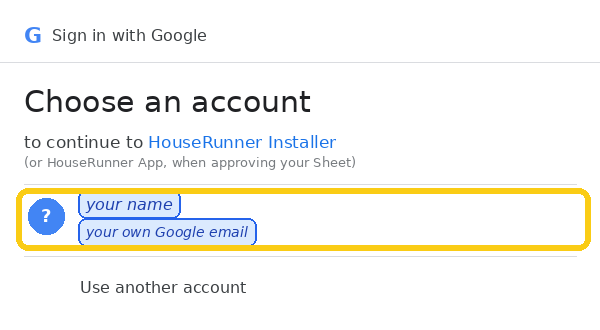
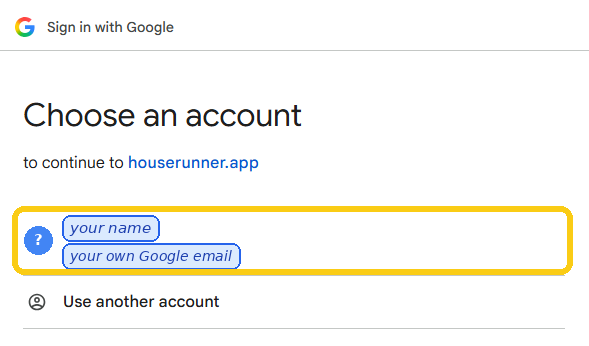
2026.11.350: real Choose an account step
Claude-Session: https://claude.ai/code/session_01R2kV4GW3UVFR51NzUKtdLQ

diff --git a/setup/guide/auto.js b/setup/guide/auto.js
@@ -91,8 +91,8 @@
         else if (S.needSwitch && k <= 2) body = '';
         else if (k === 0) body = '<div class="card big"><h3>Sign in with the Google account for your family dashboard</h3><p>Google asks you to let the <b>HouseRunner Installer</b> make <b>one new Sheet</b> in your Drive and <b>make and publish its script</b>. It can’t see your other files.' +
             (S.email ? ' <span class="mute">Last time you used ' + esc(S.email) + ' – use the same account to carry on with the same Sheet.</span>' : '') + '</p>' +
-            '<ol class="mute"><li>A Google window opens: choose <b>your</b> account.</li><li>Google says <b>“Sign in to houserunner.app”</b> with your email: click <b>Continue</b>.</li><li>Google says <b>“Google hasn’t verified this app”</b> – that’s expected, HouseRunner is new. Click <b>Continue</b> (the blue word on the left – not “Back to safety”). <span class="small">(If it shows <b>Advanced</b> instead, click that, then <b>Go to HouseRunner Installer (unsafe)</b>.)</span></li><li>Tick <b>Select all</b>, scroll down and click <b>Continue</b>.</li></ol>' +
-            '<div class="hri-pics"><figure><img src="../../shared/brand/steps/h-signinto.png?v=347" alt=""><figcaption>Sign in to houserunner.app: Continue</figcaption></figure><figure><img src="../../shared/brand/steps/h-testing.png?v=345" alt=""><figcaption>Not verified yet: Continue, on the left</figcaption></figure><figure><img src="../../shared/brand/steps/h-consent-inst.png?v=348" alt=""><figcaption>Tick Select all – your own Google email shows where it’s marked</figcaption></figure><figure><img src="../../shared/brand/steps/h-continue-inst.png?v=349" alt=""><figcaption>…then scroll down: Continue</figcaption></figure></div>' + '<p>' + '<button class="btn ghost sm" data-showme type="button">🎬 Show me</button> <span class="mute small">– a small window with a short clip of each click</span>' + '</p>' +
+            '<ol class="mute"><li>A Google window opens, <b>“Choose an account”</b>: click your account. <span class="small">(Not signed in to Google on this computer yet? It asks for your Google email and password first. Account not listed? Click <b>Use another account</b>.)</span></li><li>Google says <b>“Sign in to houserunner.app”</b> with your email: click <b>Continue</b>.</li><li>Google says <b>“Google hasn’t verified this app”</b> – that’s expected, HouseRunner is new. Click <b>Continue</b> (the blue word on the left – not “Back to safety”). <span class="small">(If it shows <b>Advanced</b> instead, click that, then <b>Go to HouseRunner Installer (unsafe)</b>.)</span></li><li>Tick <b>Select all</b>, scroll down and click <b>Continue</b>.</li></ol>' +
+            '<div class="hri-pics"><figure><img src="../../shared/brand/steps/h-choose.png?v=350" alt=""><figcaption>Choose an account: click yours</figcaption></figure><figure><img src="../../shared/brand/steps/h-signinto.png?v=347" alt=""><figcaption>Sign in to houserunner.app: Continue</figcaption></figure><figure><img src="../../shared/brand/steps/h-testing.png?v=345" alt=""><figcaption>Not verified yet: Continue, on the left</figcaption></figure><figure><img src="../../shared/brand/steps/h-consent-inst.png?v=348" alt=""><figcaption>Tick Select all – your own Google email shows where it’s marked</figcaption></figure><figure><img src="../../shared/brand/steps/h-continue-inst.png?v=349" alt=""><figcaption>…then scroll down: Continue</figcaption></figure></div>' + '<p>' + '<button class="btn ghost sm" data-showme type="button">🎬 Show me</button> <span class="mute small">– a small window with a short clip of each click</span>' + '</p>' +
             '<div class="row"><button class="btn" id="go">' + (S.sheetId ? 'Sign in and carry on' : 'Sign in with Google') + '</button></div></div>';
         else if (k === 4) body = '<div class="card big"><h3>One Google approval for HouseRunner App</h3><p>Your Sheet is made and published. Now approve what <b>HouseRunner App</b> does in your account – your calendar, sending your setup emails and so on (why each is needed is below). This tab goes to Google, then comes back here.</p>' +
             '<ol class="mute"><li>Google says <b>HouseRunner App (Unverified) needs your permission</b>: click <b>REVIEW PERMISSIONS</b>.</li><li>A Google window opens: choose <b>your</b> account.</li><li>Google warns it hasn’t been verified – expected: it’s your own private copy. If it shows <b>“Google hasn’t verified this app”</b>, click <b>Continue</b> on the left. <span class="small">(Or: <b>Advanced</b>, then <b>Go to HouseRunner App (unsafe)</b>.)</span></li><li>Tick <b>Select all</b>, scroll down, click <b>Continue</b>.</li><li>“Waiting for authorization…” for a few seconds – <b>stuck?</b> Press <b>F5</b>.</li><li>Google shows <b>✅ Approved</b>: click <b>▶ Back to HouseRunner setup</b>.</li></ol>' +

diff --git a/index.html b/index.html
@@ -24,11 +24,11 @@
         window.FD_DESK = true; window.FD_PHONE = !!phone;
     })();
     </script>
-    <link rel="stylesheet" href="shared/base.css?v=202611349">
-    <link rel="stylesheet" href="admin/admin.css?v=202611349">
-    <link rel="stylesheet" href="setup/desk.css?v=202611349">
-    <link rel="stylesheet" href="setup/editor.css?v=202611349">
-    <link rel="stylesheet" href="admin/phone.css?v=202611349">
+    <link rel="stylesheet" href="shared/base.css?v=202611350">
+    <link rel="stylesheet" href="admin/admin.css?v=202611350">
+    <link rel="stylesheet" href="setup/desk.css?v=202611350">
+    <link rel="stylesheet" href="setup/editor.css?v=202611350">
+    <link rel="stylesheet" href="admin/phone.css?v=202611350">
     <style>
 #landing { min-height: 100vh; }
 #landing .ld-wrap { max-width: 1100px; margin: 0 auto; padding: 30px 18px 50px; }
@@ -206,20 +206,20 @@
     </div></div>
     <!-- Connected: houserunner.app (computer) or Family Admin (phone) – the same app. -->
     <div id="app"></div>
-    <script src="shared/storecheck.js?v=202611349"></script>
-    <script src="shared/fd.js?v=202611349"></script>
-    <script src="dashboard/scripts/platform.js?v=202611349"></script>
-    <script src="shared/pair.js?v=202611349"></script>
-    <script src="shared/qrcode.js?v=202611349"></script>
-    <script src="shared/privacy.js?v=202611349"></script>
-    <script src="shared/countries.js?v=202611349"></script>
-    <script src="setup/config.js?v=202611349"></script>
-    <script src="help/topics.js?v=202611349"></script>
-    <script src="setup/editor.js?v=202611349"></script>
-    <script src="setup/calsetup.js?v=202611349"></script>
-    <script src="shared/icons.js?v=202611349"></script>
+    <script src="shared/storecheck.js?v=202611350"></script>
+    <script src="shared/fd.js?v=202611350"></script>
+    <script src="dashboard/scripts/platform.js?v=202611350"></script>
+    <script src="shared/pair.js?v=202611350"></script>
+    <script src="shared/qrcode.js?v=202611350"></script>
+    <script src="shared/privacy.js?v=202611350"></script>
+    <script src="shared/countries.js?v=202611350"></script>
+    <script src="setup/config.js?v=202611350"></script>
+    <script src="help/topics.js?v=202611350"></script>
+    <script src="setup/editor.js?v=202611350"></script>
+    <script src="setup/calsetup.js?v=202611350"></script>
+    <script src="shared/icons.js?v=202611350"></script>
     <!-- A phone gets Family Admin, written for the phone; a computer houserunner.app. -->
-    <script>document.write('<script src="admin/' + (window.FD_PHONE ? 'phone' : 'app') + '.js?v=202611349"><\/script>');</script>
+    <script>document.write('<script src="admin/' + (window.FD_PHONE ? 'phone' : 'app') + '.js?v=202611350"><\/script>');</script>
 <script>
  (function () {
    'use strict';

diff --git a/setup/guide/helper.html b/setup/guide/helper.html
@@ -32,12 +32,12 @@ button:disabled{opacity:.4;cursor:default}
  * and "Done – next" moves it on where it can't tell (the clicks in Google's own windows).
  * Where a picture shows Google's screens, the account shown is marked "your own Google email": the person sees theirs. */
 (function () {
-    var V = '../../shared/brand/steps/', REV = '349';
+    var V = '../../shared/brand/steps/', REV = '350';
     var SETUP = '🏠 In the <b>HouseRunner setup</b> tab', GWIN = '🔐 In <b>Google’s window</b>', GTAB = '🔐 <b>Google</b>, in the HouseRunner setup tab';
     // [stage, where, what to click, help, media (one, or several shown in turn)]
     var STEPS = [
         ['start', SETUP, 'Click <b>Sign in with Google</b>', 'Use the Google account you want the dashboard in – ideally the one with your family calendar.', 'h-signin.mp4'],
-        ['signin', GWIN, 'Choose <b>your</b> Google account', 'Google opens a small window. Your own name and email are shown where the picture says <i>your name</i> and <i>your own Google email</i>.', 'h-choose.png'],
+        ['signin', GWIN, '“Choose an account”: click <b>yours</b>', 'Google opens a small window. Your own name and email show where the picture says <i>your name</i> and <i>your own Google email</i>. <b>Not signed in to Google on this computer yet?</b> It asks for your Google email and password first. Account not listed? Click <b>Use another account</b>.', 'h-choose.png'],
         ['signin', GWIN, '“Sign in to houserunner.app”: click <b>Continue</b>', 'Google checks it’s you – your own Google email shows where the picture says so. Click <b>Continue</b> on the right.', 'h-signinto.png'],
         ['signin', GWIN, '“Google hasn’t verified this app”: click <b>Continue</b>', 'That’s expected – HouseRunner is new. Click the blue word <b>Continue</b> on the left, <b>not</b> “Back to safety”. <span class="mute">(If it shows <b>Advanced</b> instead, click that, then <b>Go to HouseRunner Installer (unsafe)</b>.)</span>', 'h-testing.png'],
         ['signin', GWIN, 'Tick <b>Select all</b>, scroll down, click <b>Continue</b>', 'Tick <b>Select all</b> so all three are ticked – one Sheet, its script, and publishing it.', ['h-consent-inst.png', 'h-continue-inst.png']],

diff --git a/setup/guide/index.html b/setup/guide/index.html
@@ -6,8 +6,8 @@
     <title>HouseRunner setup</title>
     <meta name="theme-color" content="#0c0e12">
     <link rel="icon" href="../../shared/brand/icon-192.png"><link rel="apple-touch-icon" href="../../shared/brand/apple-touch-icon.png">
-    <link rel="stylesheet" href="../editor.css?v=202611349">
-    <link rel="stylesheet" href="setup.css?v=202611349">
+    <link rel="stylesheet" href="../editor.css?v=202611350">
+    <link rel="stylesheet" href="setup.css?v=202611350">
 </head>
 <body>
     <header class="cfg-top"><a class="cfg-title hr-title" href="../../"><img src="../../shared/brand/mark.svg" alt="" class="hr-mini"><span>House<span class="hr-acc">Runner</span></span></a><a class="cfg-dash" href="../../dashboard/" target="_blank" rel="noopener">▶ Dashboard</a><a class="cfg-help" href="../../help/" target="_blank" rel="noopener">❓ Help</a></header>
@@ -29,11 +29,11 @@
     <script src="../../shared/countries.js"></script>
     <script src="../../shared/pair.js"></script>
     <script src="../../shared/qrcode.js"></script>
-    <script src="../calsetup.js?v=202611349"></script>
-    <script src="../../shared/storecheck.js?v=202611349"></script>
+    <script src="../calsetup.js?v=202611350"></script>
+    <script src="../../shared/storecheck.js?v=202611350"></script>
     <script src="https://accounts.google.com/gsi/client" async defer></script>
-    <script src="auto.js?v=202611349"></script>
-    <script src="float.js?v=202611349"></script>
-    <script src="setup.js?v=202611349"></script>
+    <script src="auto.js?v=202611350"></script>
+    <script src="float.js?v=202611350"></script>
+    <script src="setup.js?v=202611350"></script>
 </body>
 </html>

diff --git a/sw.js b/sw.js
@@ -1,6 +1,6 @@
 /* Keeps houserunner.app (the Configurator / Family Admin) available offline. Family data always comes live from Google.
  * The screen, the Family Calendar app and the licence pages look after themselves, so they're left alone here. */
-const CACHE = 'root-v204';
+const CACHE = 'root-v205';
 const FILES = ["./", "index.html", "manifest.webmanifest", "admin/app.js", "admin/phone.js", "admin/phone.css", "admin/admin.css", "admin/icons/icon-192.png", "setup/desk.css", "setup/editor.css", "setup/editor.js", "setup/calsetup.js", "setup/config.js",
   "help/topics.js", "shared/fd.js", "shared/head.js", "shared/storecheck.js", "shared/move.js", "shared/busy.js", "shared/base.css", "shared/brand/mark.svg", "shared/privacy.js", "shared/countries.js", "shared/icons.js", "shared/pair.js", "shared/qrcode.js"];
 const OWN = /^\/(screen|dashboard|calendar|licencing|windows|downloads|Scripts)\//;

diff --git a/admin/sw.js b/admin/sw.js
@@ -1,5 +1,5 @@
 /* Keeps the app itself available offline. Calendar and points data always come live from Google. */
-const CACHE = 'admin-v353';
+const CACHE = 'admin-v354';
 const FILES = ["./", "index.html", "app.js", "admin.css", "manifest.webmanifest", "icons/icon-192.png", "../shared/fd.js", "../shared/storecheck.js", "../shared/move.js", "../shared/base.css", "../shared/brand/symbol.svg", "../shared/privacy.js", "../shared/countries.js", "../shared/pair.js", "../shared/qrcode.js"];
 self.addEventListener('install', e => { e.waitUntil(caches.open(CACHE).then(c => c.addAll(FILES)).then(() => self.skipWaiting())); });
 self.addEventListener('activate', e => { e.waitUntil(caches.keys().then(ks => Promise.all(ks.filter(k => k.startsWith('admin-') && k !== CACHE).map(k => caches.delete(k)))).then(() => self.clients.claim())); });

diff --git a/calendar/sw.js b/calendar/sw.js
@@ -1,5 +1,5 @@
 /* Keeps the app itself available offline. Calendar and points data always come live from Google. */
-const CACHE = 'calendar-v341';
+const CACHE = 'calendar-v342';
 const FILES = ["./", "index.html", "app.js", "calendar.css", "manifest.webmanifest", "icons/icon-192.png", "../shared/fd.js", "../shared/storecheck.js", "../shared/move.js", "../shared/base.css", "../shared/brand/symbol.svg", "../shared/pair.js", "../shared/qrcode.js"];
 self.addEventListener('install', e => { e.waitUntil(caches.open(CACHE).then(c => c.addAll(FILES)).then(() => self.skipWaiting())); });
 self.addEventListener('activate', e => { e.waitUntil(caches.keys().then(ks => Promise.all(ks.filter(k => k.startsWith('calendar-') && k !== CACHE).map(k => caches.delete(k)))).then(() => self.clients.claim())); });

diff --git a/shared/fd.js b/shared/fd.js
@@ -191,7 +191,7 @@
         clearConfig: function () { cfg = {}; try { localStorage.removeItem(KEY); } catch (e) { /* ignore */ } },
         parseSetup: parseSetup,
 
-        VERSION: '2026.11.349',     // the phone apps' version (same number as the screen's)
+        VERSION: '2026.11.350',     // the phone apps' version (same number as the screen's)
         get: function (action, params, timeout) {
             var q = 'action=' + encodeURIComponent(action) + '&code=' + encodeURIComponent(cfg.code) + '&t=' + Date.now();
             Object.keys(params || {}).forEach(function (k) { q += '&' + k + '=' + encodeURIComponent(params[k]); });

diff --git a/dashboard/scripts/notices.js b/dashboard/scripts/notices.js
@@ -6,7 +6,7 @@
  */
 (function () {
     'use strict';
-    var APP_VERSION = '2026.11.349';
+    var APP_VERSION = '2026.11.350';
     var SNOOZE_KEY = 'familyDashboard.updateSnooze', SCRIPT_KEY = 'familyDashboard.scriptNag';
     var latest = null, lastLayout = null, privacyOpen = false, lastTouch = Date.now(), updating = false;
     var IDLE_MS = 3 * 60000;
